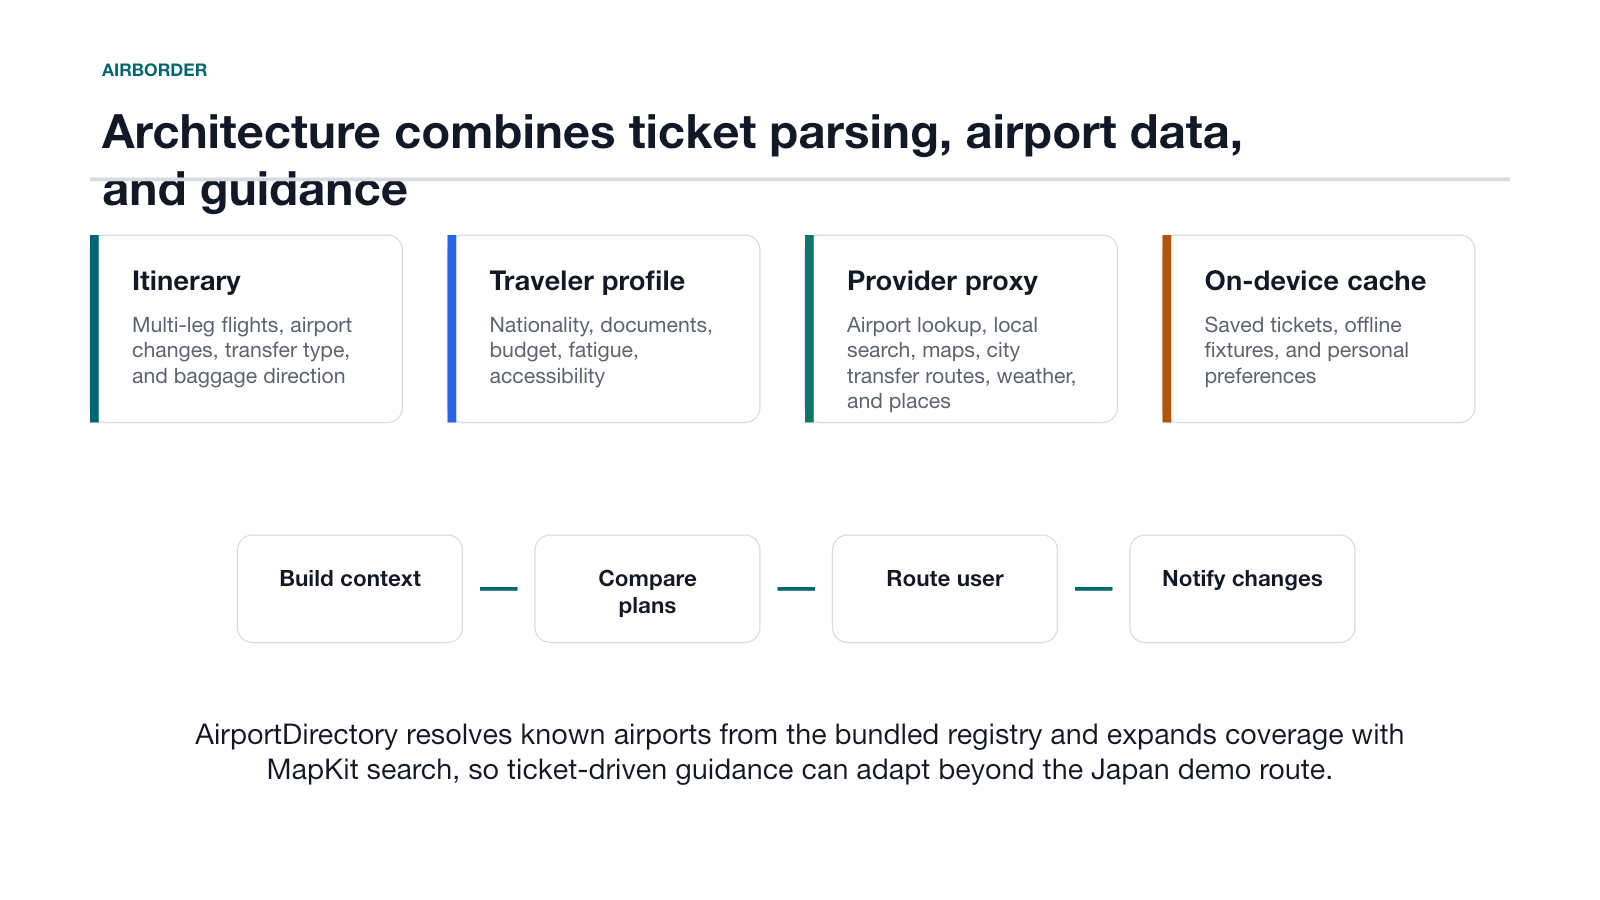
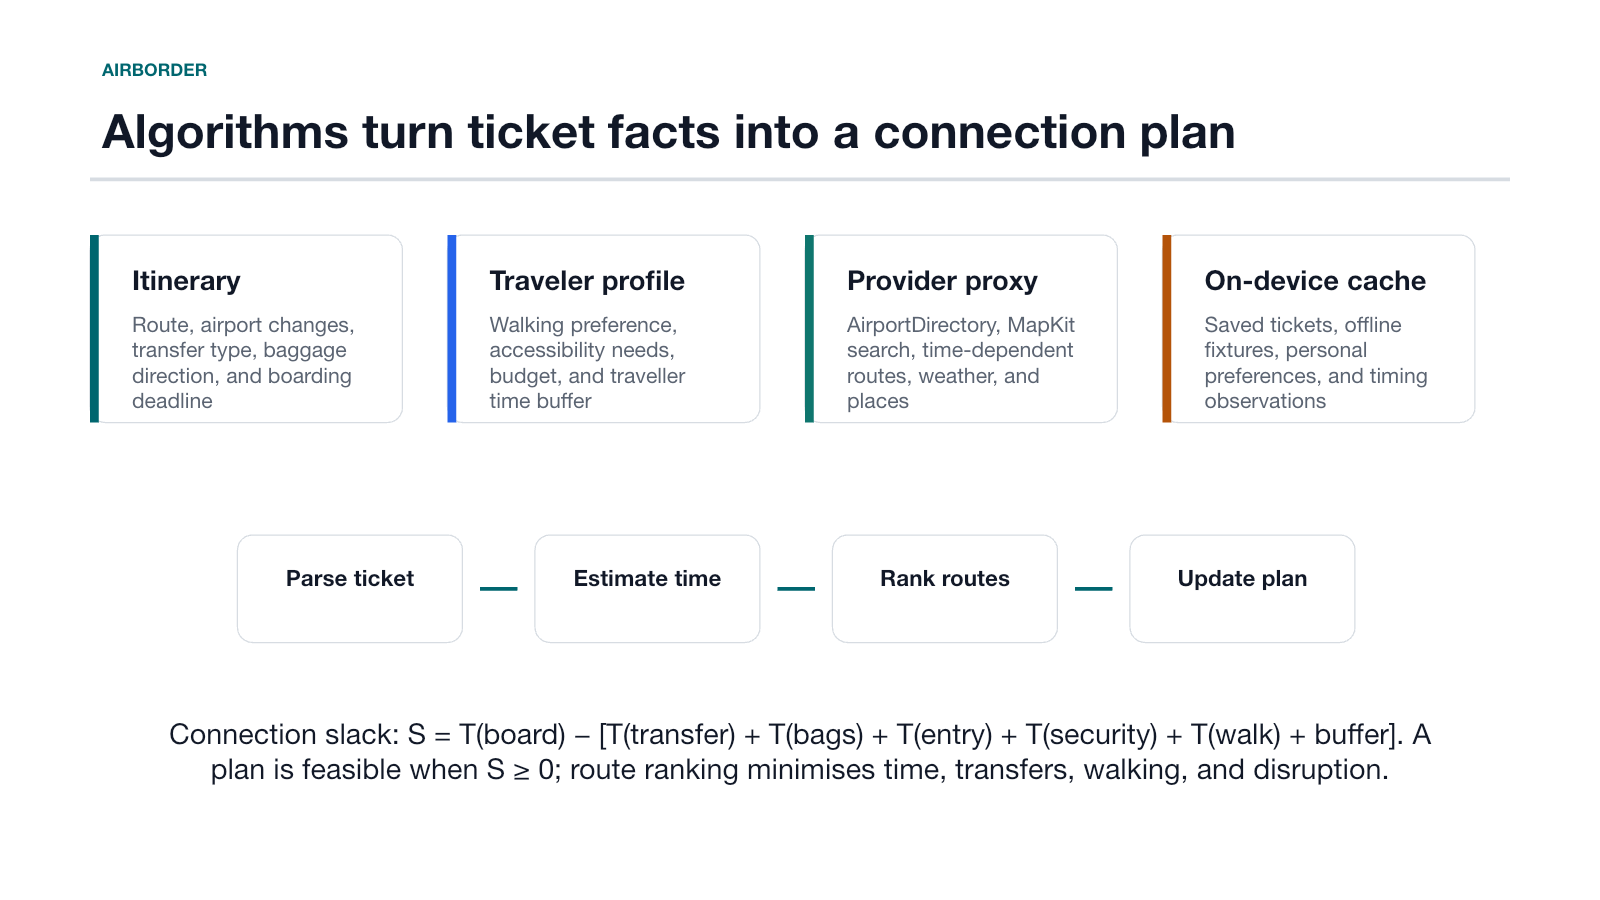
Add mathematical research pathway to deliverables

diff --git a/Submission/AirBorder-Deliverables/Project-Overview.md b/Submission/AirBorder-Deliverables/Project-Overview.md
@@ -8,12 +8,29 @@ The app supports both same-airport connections and multi-airport transfers, incl
 
 ## Key Takeaways
 
-- Connection planning is strongest when it explains the timing inputs behind a result rather than presenting an unexplained answer.
-- Ticket details can simplify passenger input: a scanned ticket provides the route, flight numbers, baggage signals, and transfer context used in the trip plan.
-- The project distinguishes live, saved, stale, example, and unavailable data so data status is visible throughout the journey.
-- Privacy-sensitive features are designed to remain on device where possible, including personal timing insights and the on-device Journey overview feature on compatible Apple devices.
-- The terminal map and AR route experience are a proof of concept built with a bundled demonstration graph.
-- The project can be downloaded from GitHub and run in Xcode on Simulator or a reviewer’s own iPhone.
+- A ticket can be treated as structured travel input rather than a document to read manually. AirBorder extracts route, airport changes, flight references, transfer type, and baggage direction, then turns those facts into the connection plan without asking the passenger to classify the connection.
+- A useful connection decision is an auditable feasibility calculation. The core quantity is connection slack: `S = T_board − (T_transfer + T_bags + T_entry + T_security + T_walk + B)`, where `B` is a conservative buffer. A city or airport activity is suitable only when its expected duration fits within the available slack.
+- The present route planner already uses a transparent multi-factor score: travel duration plus transfer, walking, and disruption penalties. This makes accessibility preferences and the quickest inter-airport option expressible as clear, testable trade-offs instead of opaque recommendations.
+- The BKK → HND → NRT → LAX fixture demonstrates that airport changes are not a variation of an ordinary layover. A self-transfer introduces additional baggage, entry, check-in, and surface-transfer constraints that must be added to the itinerary model.
+- Global airport coverage can grow incrementally: the bundled airport registry provides stable offline behaviour, while MapKit search resolves airports not yet represented in the local dataset. This separates dependable local data from broader geographic discovery.
+- AR, map, and globe guidance share one routing intent: guide the passenger through a terminal, between airports, or through a city stop while preserving the path back to boarding.
+- The project is reproducible: it can be downloaded from GitHub and run in Xcode on Simulator or a reviewer’s own iPhone, with an importable ticket fixture and automated tests.
+
+## Research and Development Pathway
+
+AirBorder provides a foundation for a research-oriented connection-assistance system. A next study can estimate each component of the slack equation as a probability distribution rather than a single number: for example, walking time, immigration time, security time, baggage reclaim time, and ground-transfer time. The model can then report the probability of reaching the next boarding point on time:
+
+`P(on time) = P(T_transfer + T_bags + T_entry + T_security + T_walk + B ≤ T_board)`.
+
+This enables several measurable research questions:
+
+- **Calibration:** compare predicted and observed transfer times by airport, time of day, traveller accessibility needs, baggage status, and disruption conditions.
+- **Decision quality:** evaluate whether a risk-aware recommendation reduces missed-connection exposure compared with fixed-buffer rules.
+- **Personalisation with privacy:** learn a traveller’s walking-speed range and preferred buffer on device, while keeping the global model based on de-identified aggregate observations.
+- **Multi-objective optimisation:** rank plans by reliability, walking effort, cost, accessibility, and traveller value. A future objective can minimise risk and effort while maximising the usefulness of the available layover time.
+- **Network and map research:** represent terminals, inter-airport links, and city access as a time-dependent graph. Shortest-path and robust-routing methods can then update routes when gates, queues, or transit services change.
+
+The current prototype deliberately keeps the terminal graph and ticket fixtures deterministic for testing. The next engineering step is to collect consented, privacy-preserving observations that can validate the timing distributions and improve recommendations across airports.
 
 ## Application Link
 

diff --git a/Submission/Project-Overview.md b/Submission/Project-Overview.md
@@ -8,12 +8,29 @@ The app supports both same-airport connections and multi-airport transfers, incl
 
 ## Key Takeaways
 
-- Connection planning is strongest when it explains the timing inputs behind a result rather than presenting an unexplained answer.
-- Ticket details can simplify passenger input: a scanned ticket provides the route, flight numbers, baggage signals, and transfer context used in the trip plan.
-- The project distinguishes live, saved, stale, example, and unavailable data so data status is visible throughout the journey.
-- Privacy-sensitive features are designed to remain on device where possible, including personal timing insights and the on-device Journey overview feature on compatible Apple devices.
-- The terminal map and AR route experience are a proof of concept built with a bundled demonstration graph.
-- The project can be downloaded from GitHub and run in Xcode on Simulator or a reviewer’s own iPhone.
+- A ticket can be treated as structured travel input rather than a document to read manually. AirBorder extracts route, airport changes, flight references, transfer type, and baggage direction, then turns those facts into the connection plan without asking the passenger to classify the connection.
+- A useful connection decision is an auditable feasibility calculation. The core quantity is connection slack: `S = T_board − (T_transfer + T_bags + T_entry + T_security + T_walk + B)`, where `B` is a conservative buffer. A city or airport activity is suitable only when its expected duration fits within the available slack.
+- The present route planner already uses a transparent multi-factor score: travel duration plus transfer, walking, and disruption penalties. This makes accessibility preferences and the quickest inter-airport option expressible as clear, testable trade-offs instead of opaque recommendations.
+- The BKK → HND → NRT → LAX fixture demonstrates that airport changes are not a variation of an ordinary layover. A self-transfer introduces additional baggage, entry, check-in, and surface-transfer constraints that must be added to the itinerary model.
+- Global airport coverage can grow incrementally: the bundled airport registry provides stable offline behaviour, while MapKit search resolves airports not yet represented in the local dataset. This separates dependable local data from broader geographic discovery.
+- AR, map, and globe guidance share one routing intent: guide the passenger through a terminal, between airports, or through a city stop while preserving the path back to boarding.
+- The project is reproducible: it can be downloaded from GitHub and run in Xcode on Simulator or a reviewer’s own iPhone, with an importable ticket fixture and automated tests.
+
+## Research and Development Pathway
+
+AirBorder provides a foundation for a research-oriented connection-assistance system. A next study can estimate each component of the slack equation as a probability distribution rather than a single number: for example, walking time, immigration time, security time, baggage reclaim time, and ground-transfer time. The model can then report the probability of reaching the next boarding point on time:
+
+`P(on time) = P(T_transfer + T_bags + T_entry + T_security + T_walk + B ≤ T_board)`.
+
+This enables several measurable research questions:
+
+- **Calibration:** compare predicted and observed transfer times by airport, time of day, traveller accessibility needs, baggage status, and disruption conditions.
+- **Decision quality:** evaluate whether a risk-aware recommendation reduces missed-connection exposure compared with fixed-buffer rules.
+- **Personalisation with privacy:** learn a traveller’s walking-speed range and preferred buffer on device, while keeping the global model based on de-identified aggregate observations.
+- **Multi-objective optimisation:** rank plans by reliability, walking effort, cost, accessibility, and traveller value. A future objective can minimise risk and effort while maximising the usefulness of the available layover time.
+- **Network and map research:** represent terminals, inter-airport links, and city access as a time-dependent graph. Shortest-path and robust-routing methods can then update routes when gates, queues, or transit services change.
+
+The current prototype deliberately keeps the terminal graph and ticket fixtures deterministic for testing. The next engineering step is to collect consented, privacy-preserving observations that can validate the timing distributions and improve recommendations across airports.
 
 ## Application Link
 
